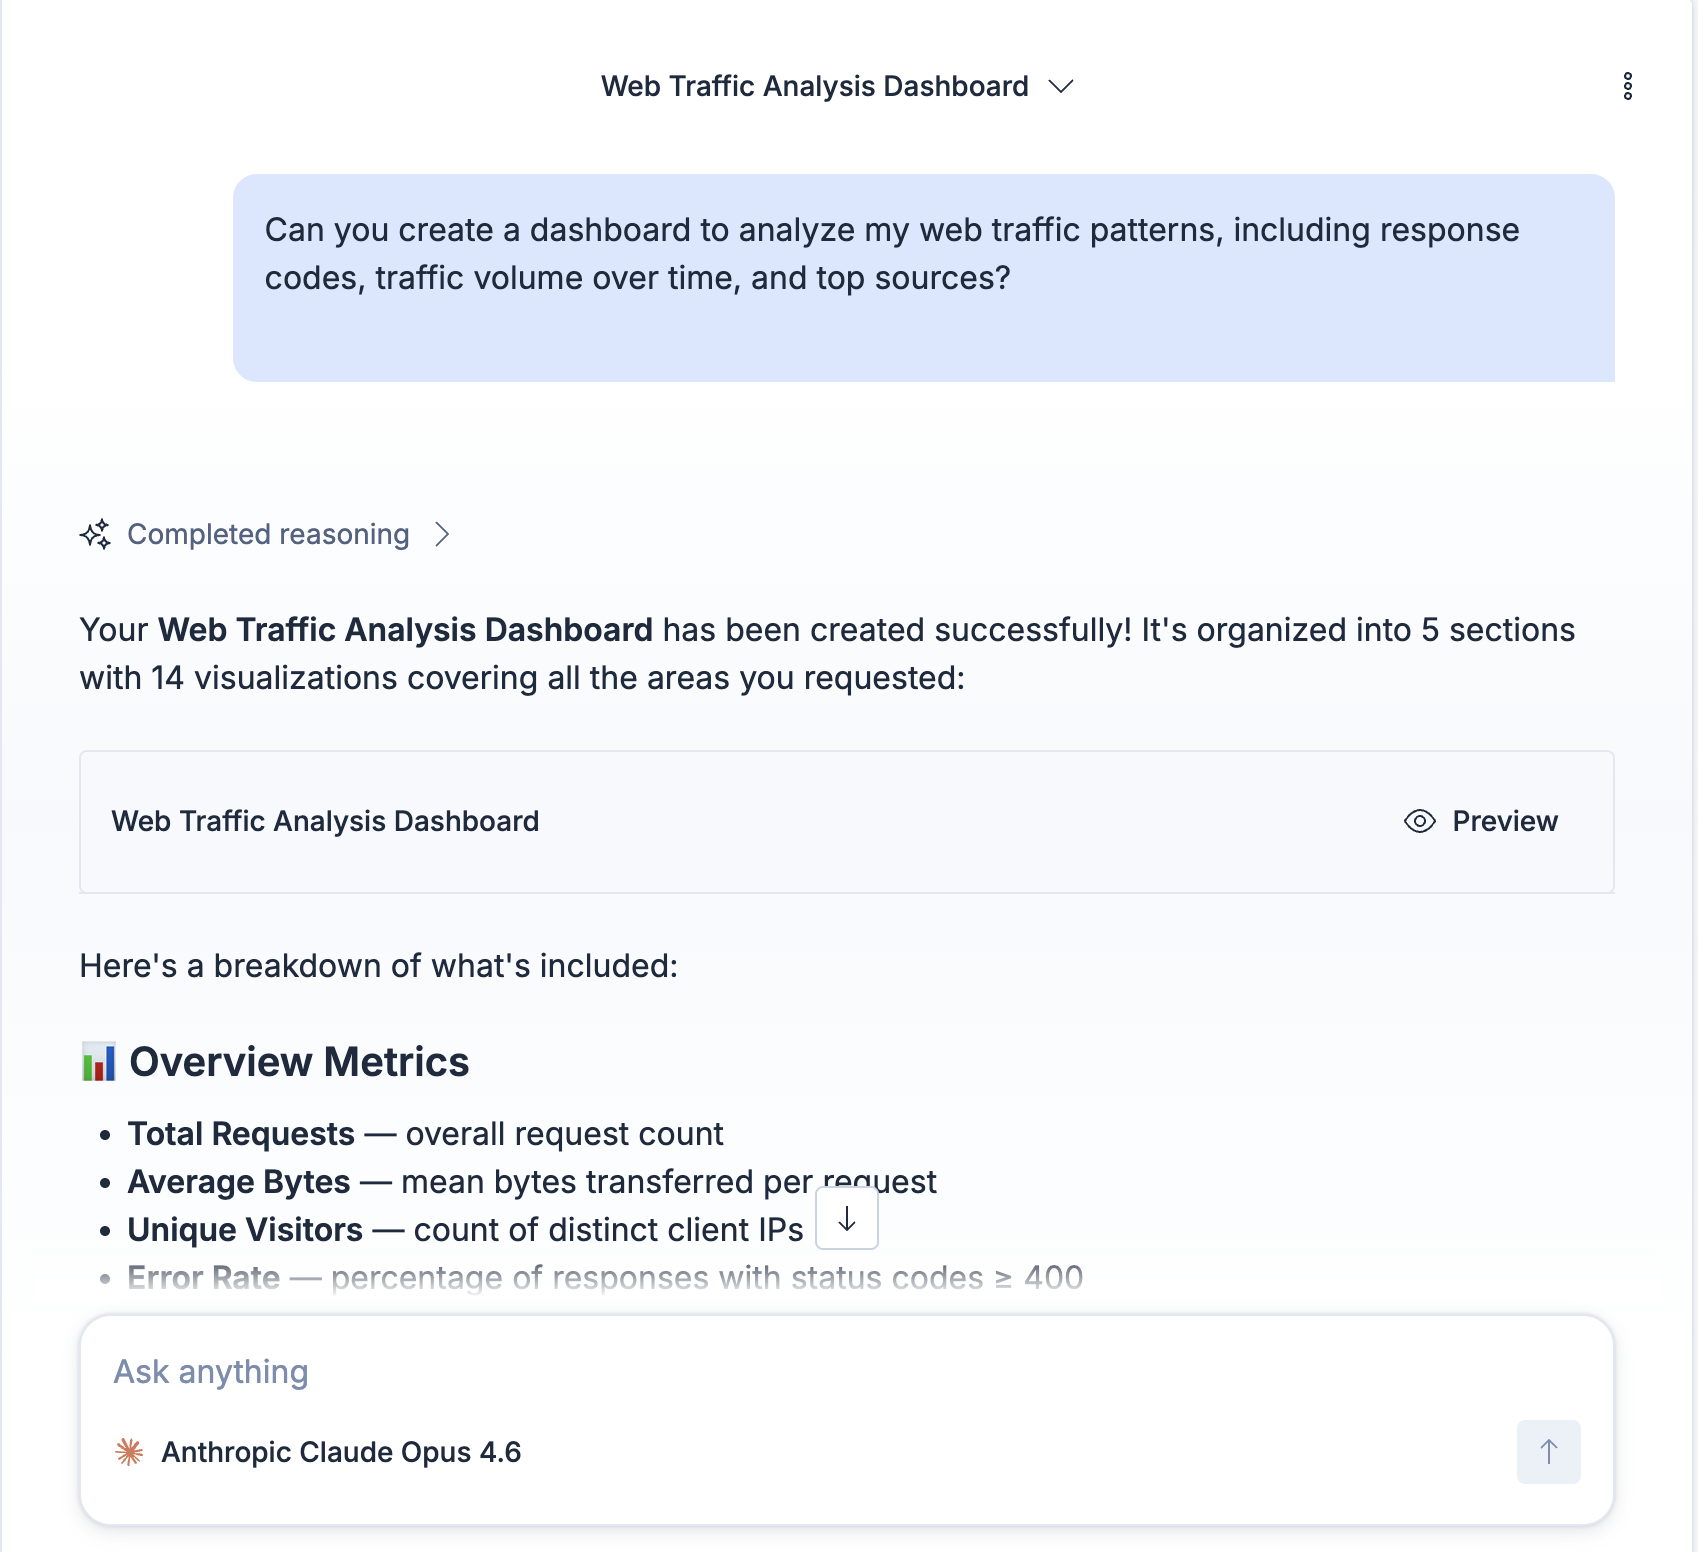
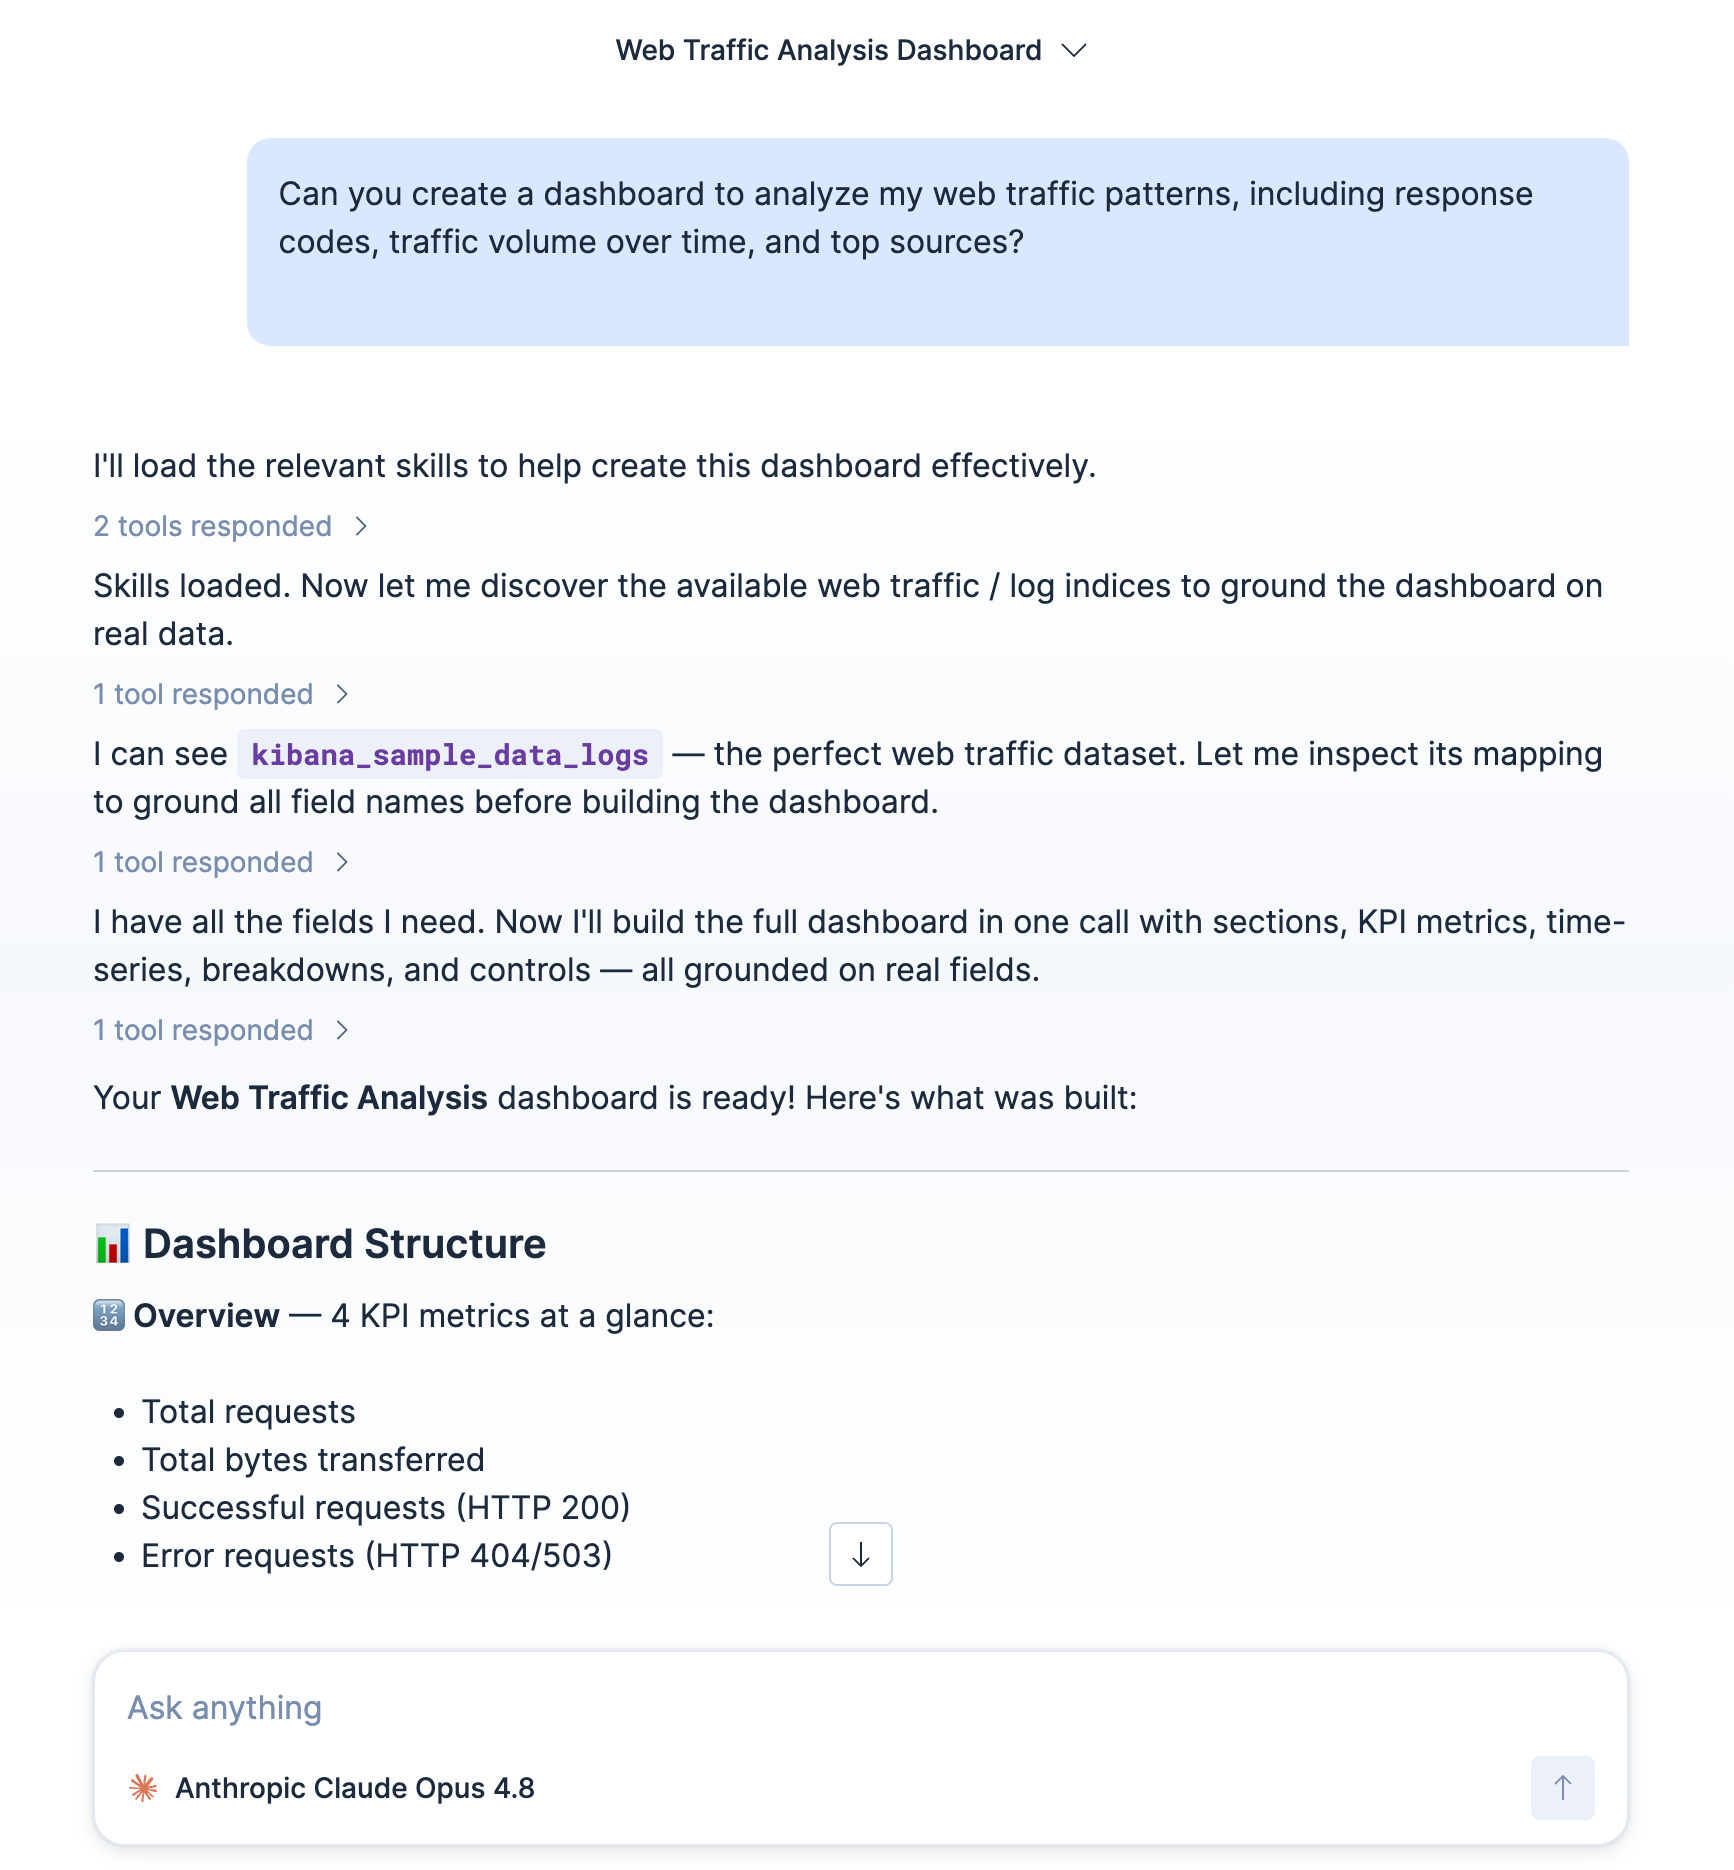
docs: refresh step 1 chat response screenshot and update alt text (#7443)

diff --git a/explore-analyze/ai-features/agent-builder/agent-builder-dashboards-and-visualizations.md b/explore-analyze/ai-features/agent-builder/agent-builder-dashboards-and-visualizations.md
@@ -48,7 +48,7 @@ Describe what you want to visualize. The agent creates the dashboard and respond
 
 :::{image} images/agent-builder-dashboard-chat-response.png
 :screenshot:
-:alt: Agent chat response showing a created Web Traffic Analysis Dashboard with a Preview button and a breakdown of the included sections and metrics
+:alt: Agent chat showing a natural language request to create a web traffic dashboard and the agent's response describing the skills it loaded, the data it used, and a breakdown of the dashboard structure
 :::
 ::::
 ::::{step} Preview the dashboard